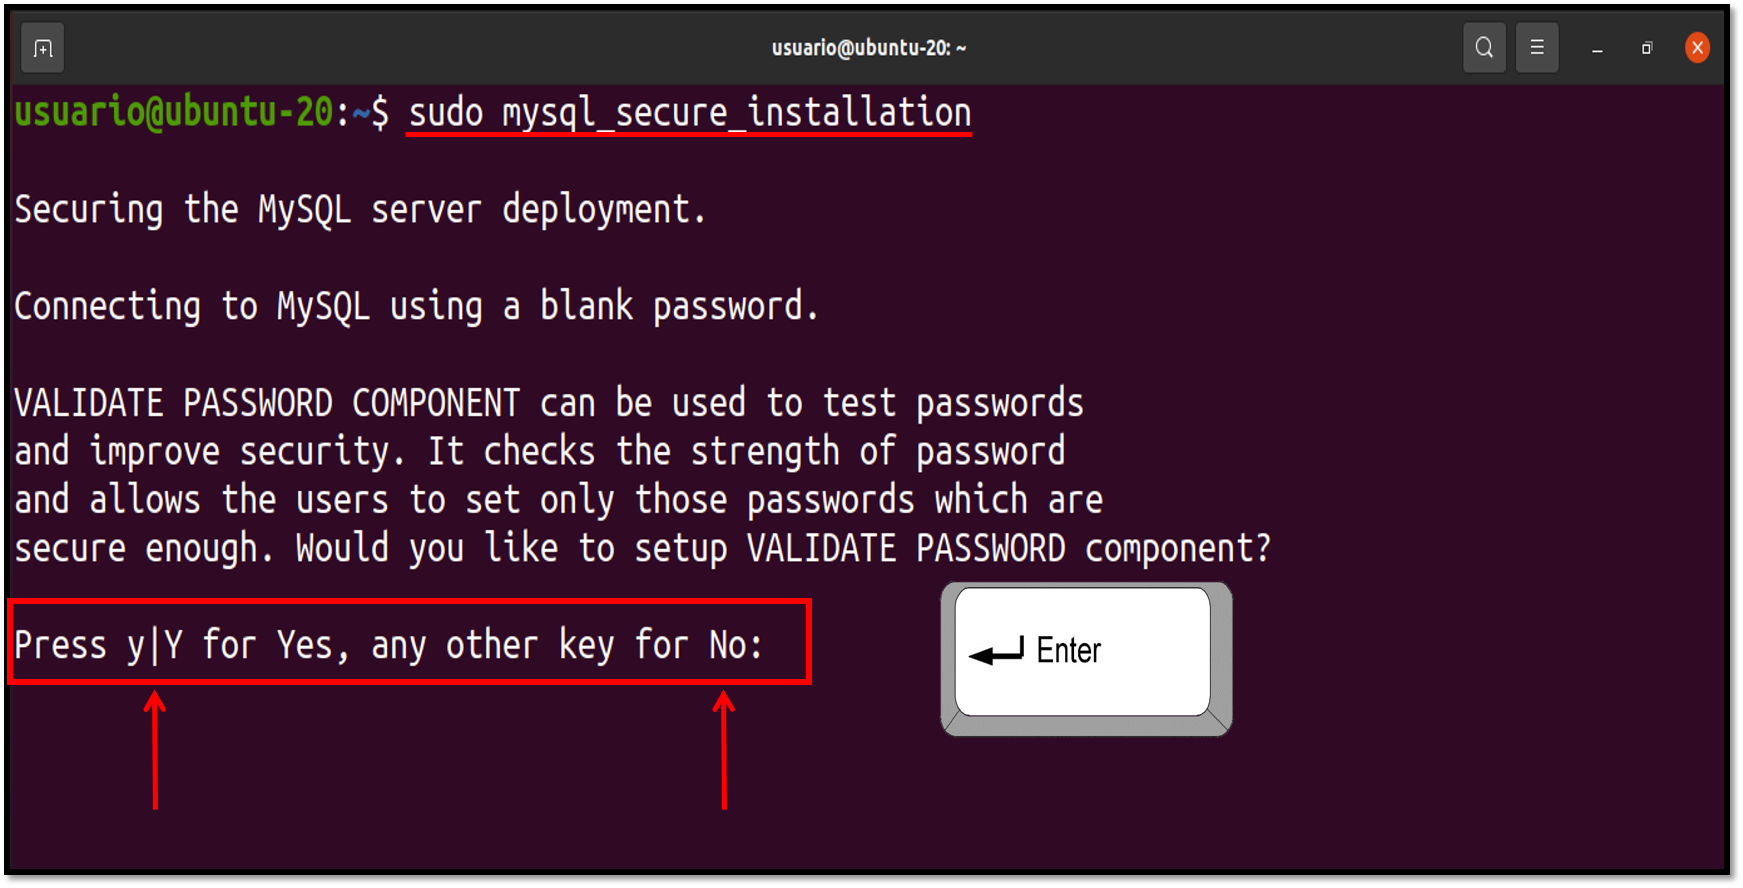
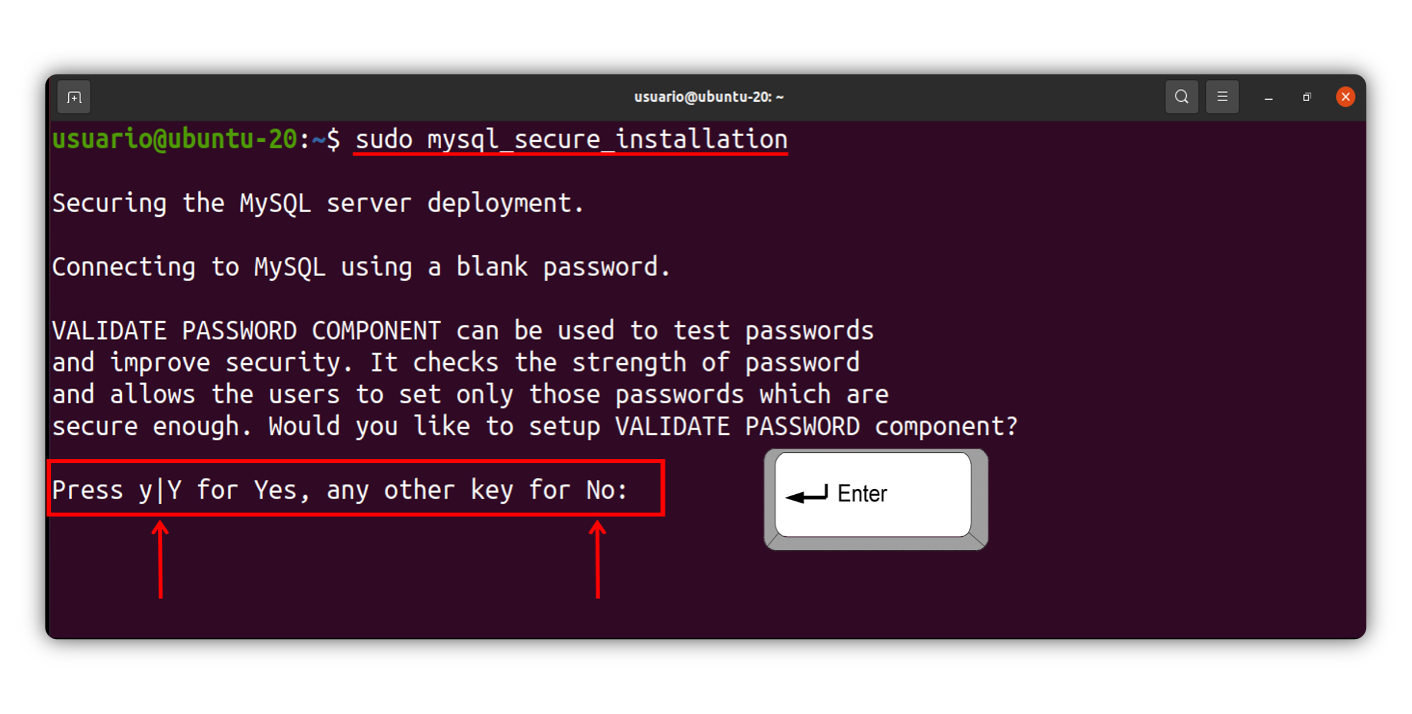
up: content

diff --git a/_posts/bases-de-datos/relaciones/mysql/01-basico/2024-02-02-limitar-resultados-con-limit.md b/_posts/bases-de-datos/relaciones/mysql/01-basico/2024-02-02-limitar-resultados-con-limit.md
@@ -1,0 +1,179 @@
+---
+title: "MySQL 🐬 : Uso de LIMIT y OFFSET para Limitar Resultados"
+author: enidev911
+description: "El comando `LIMIT` nos permite **controlar la cantidad de resultados** que obtienes de una consulta, ideal para mejorar el rendimiento."
+categories: [Bases de Datos Relacionales, "MySQL - 01. Básico"]
+image:
+  path: posters/mysql-limit-y-offset.webp
[1 lines of base64/hex data omitted]
+pin: true
+tags: [Bases de Datos]
+---
+
+En MySQL, cuando trabajas con grandes cantidades de datos, puede que no siempre necesites obtener todos los registros de una tabla. Aquí es donde el comando **`LIMIT`** entra en juego. Este comando te permite restringir la cantidad de filas que una consulta puede devolver, lo que resulta muy útil para mejorar el rendimiento de las consultas y facilitar la visualización de datos, especialmente cuando solo necesitas una muestra de los resultados.
+
+Además, **`LIMIT`** es clave para implementar paginación en aplicaciones, permitiéndote dividir los resultados en páginas y mostrar solo una cantidad específica de registros por vez.
+
+En este post, veremos cómo usar **`LIMIT`** para limitar los resultados de las consultas en MySQL, con ejemplos prácticos utilizando una base de datos de tienda y su tabla de productos.
+
+### **¿Cómo funciona LIMIT?**
+
+La sintaxis de `LIMIT` es la siguiente:
+
+```sql
+SELECT columna1, columna2, ...
+FROM tabla
+LIMIT n;
+```
+{: .nolineno }
+
+- **`n`**: El número de registros que deseas obtener.
+
+#### **Ejemplo básico:**
+
+Supongamos que tenemos una tabla llamada **`productos`** en la base de datos **`tienda`** con los siguientes datos:
+
+{% tabs ex_limit %}
+{% tab ex_limit Datos %}
+|id|nombre|precio|cantidad|
+|:-|:-|:-|:-|
+|1|Laptop|499990|25|
+|2|Mouse|19990|40|
+|3|Teclado|29900|60|
+|4|Monitor|120000|15|
+|5|Tablet|109000|30|
+{% endtab %}
+{% tab ex_limit SQL %}
+```sql
+CREATE TABLE productos (
+    id INT AUTO_INCREMENT PRIMARY KEY,
+    nombre VARCHAR(255),
+    precio INT,
+    cantidad INT
+);
+
+INSERT INTO productos (nombre, precio, cantidad)
+VALUES 
+    ('Laptop', 499990, 25),
+    ('Mouse', 19990, 40),
+    ('Teclado', 29900, 60),
+    ('Monitor', 120000, 15),
+    ('Tablet', 109000, 30);
+```
+{: .nolineno }
+{% endtab %}
+{% endtabs %}
+
+Si quieres obtener solo los primeros 3 productos, puedes utilizar `LIMIT` de la siguiente forma:
+
+```sql
+SELECT * FROM productos
+LIMIT 3;
+```
+{: .nolineno }
+
+{% tabs ex_limit_output %}
+{% tab ex_limit_output resultado %}
+|id|nombre|precio|cantidad|
+|:-|:-|:-|:-|
+|1|Laptop|499990|25|
+|2|Mouse|19990|40|
+|3|Teclado|29900|60|
+{% endtab %}
+{% tab ex_limit_output mysql %}
+{% capture code %}
+<span class="hl">root@localhost [tienda]&gt; SELECT * FROM productos LIMIT 3;</span>
++----+---------+--------+----------+
+| id | nombre  | precio | cantidad |
++----+---------+--------+----------+
+|  1 | Laptop  | 499990 |       25 |
+|  2 | Mouse   |  19990 |       40 |
+|  3 | Teclado |  29900 |       60 |
++----+---------+--------+----------+
+3 rows in set (0.01 sec)
+{% endcapture %}
+{% include terminal-wrapper.html content=code %}
+{% endtab %}
+{% endtabs %}
+
+
+### **¿Cómo usar LIMIT con OFFSET?**
+
+Además de limitar el número de resultados, puedes usar **`OFFSET`** para omitir una cierta cantidad de registros antes de devolver los resultados.
+
+La sintaxis con `LIMIT` y `OFFSET` es:
+
+```sql
+SELECT columna1, columna2, ...
+FROM tabla
+LIMIT n OFFSET m;
+```
+{: .nolineno }
+
+- **n**: El número de registros que deseas obtener.
+- **m**: El número de registros a omitir.
+
+#### **Ejemplo con OFFSET:**
+
+Supongamos que deseamos omitir los primeros 2 productos y obtener los siguientes 3:
+
+```sql
+SELECT * FROM productos
+LIMIT 3 OFFSET 2;
+```
+{: .nolineno }
+
+**Resultado:**
+
+{% tabs ex_limit_offset %}
+{% tab ex_limit_offset resultado %}
+|id|nombre|precio|cantidad|
+|:-|:-|:-|:-|
+|3|Teclado|29900|60|
+|4|Monitor|120000|15|
+|5|Tablet|109000|30|
+{% endtab %}
+{% tab ex_limit_offset mysql %}
+{% capture code %}
+<span class="hl">root@localhost [tienda]&gt; SELECT * FROM productos LIMIT 3 OFFSET 2;</span>
++----+---------+--------+----------+
+| id | nombre  | precio | cantidad |
++----+---------+--------+----------+
+|  3 | Teclado |  29900 |       60 |
+|  4 | Monitor | 120000 |       15 |
+|  5 | Tablet  | 109000 |       30 |
++----+---------+--------+----------+
+3 rows in set (0.01 sec)
+{% endcapture %}
+{% include terminal-wrapper.html content=code %}
+{% endtab %}
+{% endtabs %}
+
+### **Aplicaciones Comunes de LIMIT**
+
+1. **Paginación de Resultados:**
+   Si estás mostrando resultados en una aplicación web, como productos en una tienda online, puedes utilizar `LIMIT` junto con `OFFSET` para paginar los resultados. De esta forma, solo se muestran un número limitado de productos por página.
+
+   **Ejemplo**:
+   - Página 1 (registros 1 a 10):
+
+   ```sql
+   SELECT * FROM productos
+   LIMIT 10 OFFSET 0;
+   ```
+   {: .nolineno }
+
+   - Página 2 (registros 11 a 20):
+
+   ```sql
+   SELECT * FROM productos
+   LIMIT 10 OFFSET 10;
+   ```
+   {: .nolineno }
+
+2. **Mejorar el Rendimiento:**
+   Cuando trabajas con grandes bases de datos, las consultas sin `LIMIT` pueden tardar mucho. Si solo necesitas una pequeña muestra de resultados, usar `LIMIT` puede acelerar considerablemente la consulta.
+
+3. **Consultas de Muestra:**
+   Si necesitas revisar o probar algo rápidamente en la base de datos, puedes usar `LIMIT` para obtener solo un subconjunto de los registros.
+

diff --git a/_posts/bases-de-datos/relaciones/mysql/01-basico/2024-01-22-instalacion-en-ubuntu.md b/_posts/bases-de-datos/relaciones/mysql/01-basico/2024-01-22-instalacion-en-ubuntu.md
@@ -9,12 +9,13 @@ image:
 pin: true
 ---
 
+En este post, cubriremos cómo instalar MySQL en una máquina Ubuntu, cómo configurarlo para que funcione de manera segura y cómo verificar que la instalación se haya completado correctamente.
 
 ## **Requisitos Previos**
 
 Antes de comenzar, asegurate de tener lo siguiente:
 
-- Una instalación de **Ubuntu** (esta guía es aplicable a versiones recientes como **Ubuntu 22.04.1 LTS**, **Ubuntu 24.04.1 LTS**, etc).
+- Una instalación de **Ubuntu** (esta guía es aplicable a versiones **Ubuntu 20.04.4 LTS** y versiones más recientes como **Ubuntu 22.04.1 LTS**, **Ubuntu 24.04.1 LTS**, etc).
 - Acceso a una cuenta con privilegios **sudo**.
 
 ## **Comenzar Instalación**
@@ -42,8 +43,7 @@ Ubuntu ofrece una versión estable y reciente de MySQL directamente desde sus re
   sudo apt install mysql-server
   ```
 
-![Paso 1](mysql/mysql-ubuntu-paso1.png)
-_Instalar mysql en ubuntu_
+![Paso 1](mysql/mysql-ubuntu-install-step-1.png)
 
 - Concluida la instalación, el demonio de MySQL se iniciará automáticamente. Para verificar si esta ejecutandose el servidor usamos el siguiente comando:
 
